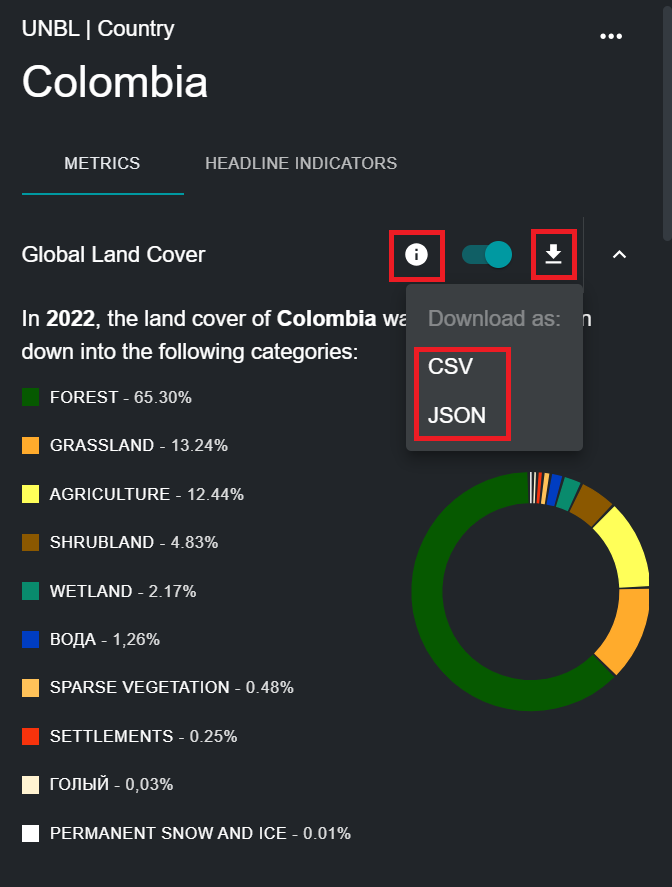
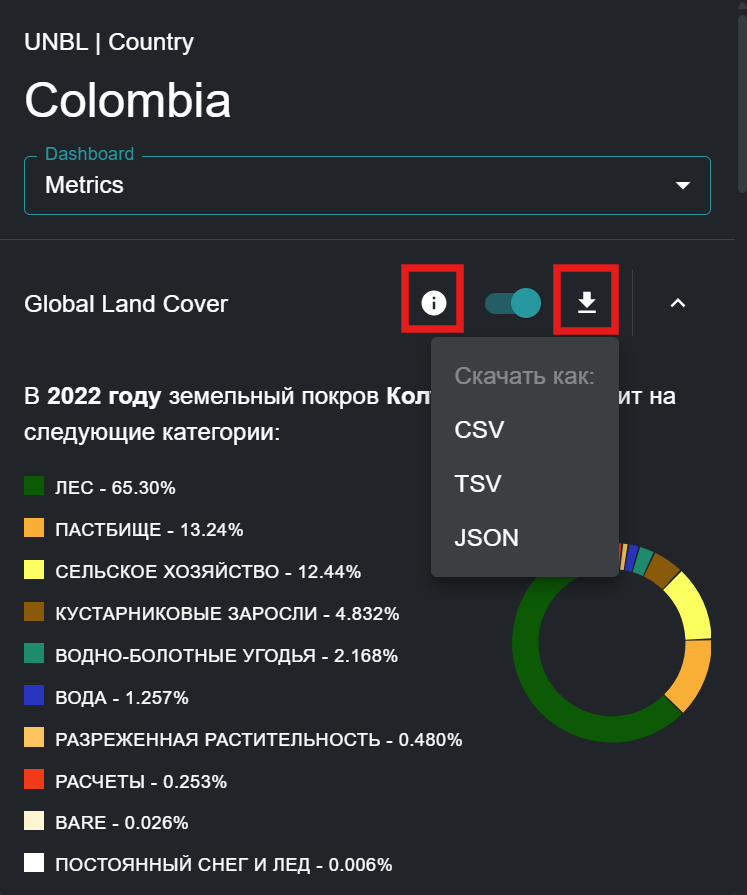
FOR REVIEWERS - public platform updates

Changed region(s): [[0.0312, 0.2435, 0.9688, 0.9741], [0.0312, 0.0, 0.5938, 0.2435], [0.9062, 0.1826, 0.9375, 0.2131]]

diff --git a/docs/unbl-public-platform/15_clip_export.ru.md b/docs/unbl-public-platform/15_clip_export.ru.md
@@ -1,12 +1,16 @@
 # Как мне вырезать и экспортировать наборы данных?
 
-Зарегистрированные пользователи UNBL могут вырезать растровые наборы данных по интересующей их области и загружать их для использования в настольном программном обеспечении GIS. Эта функция позволяет пользователям получать доступ к исходным данным, избегая при этом необходимости в пропускной способности и хранилище, требуемых для загрузки и работы с глобальным набором данных. 
+Зарегистрированные пользователи UNBL могут:
 
-Чтобы вырезать набор данных по интересующей вас области и загрузить его:
+- Вырезать растровые наборы данных по интересующей их области и загружать их для использования в настольном программном обеспечении GIS--Эта функция позволяет пользователям получать доступ к исходным данным, избегая при этом необходимости в пропускной способности и хранилище, требуемых для загрузки и работы с глобальным набором данных. 
+
+-  Cкачать файл с границами интересующего вас района в формате GeoJSON для использования в настольном ГИС-программном обеспечении. 
+
+Для этого:
 
 1.	Нажмите кнопку «МЕСТА» и выберите интересующие вас места.
 
-2.	Нажмите на значок **…** справа от названия страны и нажмите «Обрезать и экспортировать слои». 
+2.	Нажмите на значок ![](images/icons/ellipsis-icon.png){style="display: inline; width: 1em; height: 1em; width: 2em;"} справа от названия страны и выберите «Скачать GeoJSON», чтобы загрузить файл с границами интересующего вас региона, или нажмите «Обрезать и экспортировать слои», если хотите обрезать и скачать конкретный набор данных. Если вы выбрали последний вариант, выполните дополнительные шаги 3–6, описанные ниже.
 
 	![](images/ru/image072.png)
 

diff --git a/docs/unbl-public-platform/8_dynamic_metrics1.fr.md b/docs/unbl-public-platform/8_dynamic_metrics1.fr.md
@@ -39,7 +39,7 @@ Pour consulter ces indicateurs sur le UN Biodiversity Lab :
 
 1. Sélectionnez un pays ou une zone d'intérêt spécifique dans l'onglet ENDROITS.
 
-2. Consultez les indicateurs dans le panneau de gauche. Choisissez entre une liste de neuf indicateurs dynamiques ou deux indicateurs principaux en cliquant sur le bouton METRICS ou HEADLINE INDICATORS. Notez que les indicateurs principaux et l'indicateur standard des aires protégées ne peuvent être affichés que pour les lieux de type pays.
+2. Consultez les indicateurs dans le panneau de gauche. Choisissez entre une liste de neuf indicateurs dynamiques ou deux indicateurs principaux en sélectionnant l'option METRICS ou HEADLINE INDICATORS dans le tableau de bord affiché. Notez que les indicateurs principaux et l'indicateur standard des aires protégées ne peuvent être affichés que pour les lieux de type pays.
 
 3. Cliquez sur le bouton à côté d'une mesure spécifique si vous souhaitez afficher cet ensemble de données sur la carte. Cliquez à nouveau sur le bouton ou sur l'icône « Supprimer l'ensemble de données » dans la légende pour effacer l'écran.
 
@@ -47,6 +47,6 @@ Pour consulter ces indicateurs sur le UN Biodiversity Lab :
 
 4. Cliquez sur l'icône ![](images/icons/info-icon.png){style="display: inline; width: 1em; height: 2em; width: 2em;"} pour afficher les informations relatives à l'ensemble de données. Les pages d'informations fournissent une brève description des données, des articles connexes à lire, des données brutes à télécharger (si elles sont disponibles gratuitement) et les spécifications de la licence.
 
-5. Pour télécharger les données récapitulatives de l'indicateur au format .csv ou .json, cliquez sur l'icône en forme de flèche ![](images/icons/download-icon.png){style="display: inline; width: 1em; height: 2em; width: 2em;"}. Vous pouvez également télécharger les données à partir des liens sources figurant sur les pages d'informations des ensembles de données.
+5. Pour télécharger les données récapitulatives de l'indicateur au format .csv, .tsv ou .json, cliquez sur l'icône en forme de flèche ![](images/icons/download-icon.png){style="display: inline; width: 1em; height: 2em; width: 2em;"}. Vous pouvez également télécharger les données à partir des liens sources figurant sur les pages d'informations des ensembles de données.
 
 	![](images/fr/image041.png)

diff --git a/docs/unbl-public-platform/8_dynamic_metrics1.es.md b/docs/unbl-public-platform/8_dynamic_metrics1.es.md
@@ -39,7 +39,7 @@ Para ver estas métricas en el UN Biodiversity Lab:
 
 1. Seleccione un país o área de interés específicos en la pestaña «LUGARES».
 
-2. Revise las métricas en el panel izquierdo. Elija entre una lista de las nueve métricas dinámicas o dos métricas de indicadores de cabecera haciendo clic en el botón «MÉTRICAS» o «INDICADORES PRINCIPALES». Tenga en cuenta que las métricas de indicadores principales y la métrica estándar de Áreas Protegidas solo se pueden mostrar para lugares de tipo país.
+2. Revise las métricas en el panel izquierdo. Elija entre una lista de las nueve métricas dinámicas o dos métricas de indicadores de cabecera seleccionando la opción «MÉTRICAS» o «INDICADORES PRINCIPALES» en el panel de control que se muestra. Tenga en cuenta que las métricas de indicadores principales y la métrica estándar de Áreas Protegidas solo se pueden mostrar para lugares de tipo país.
 
 3. Haga clic en el botón de activación junto a cualquier métrica específica si desea ver este conjunto de datos en el mapa. Haga clic de nuevo en el botón de activación o en el icono de eliminar conjunto de datos de la leyenda para borrar la pantalla.
 
@@ -47,6 +47,6 @@ Para ver estas métricas en el UN Biodiversity Lab:
 	
 4. Haga clic en el ![](images/icons/info-icon.png){style="display: inline; width: 1em; height: 2em; width: 2em;"} icono para ver la información del conjunto de datos. Las páginas de información proporcionan una breve descripción de los datos, documentos relacionados para leer, datos sin procesar para descargar (si están disponibles gratuitamente) y especificaciones de la licencia.
 
-5. Para descargar los datos resumidos de la métrica en formato .csv o .json, haga clic en el icono de flecha ![](images/icons/download-icon.png){style="display: inline; width: 1em; height: 2em; width: 2em;"}. También puede descargar los datos desde los enlaces de origen que se encuentran en las páginas de información de los conjuntos de datos.
+5. Para descargar los datos resumidos de la métrica en formato .csv, .tsv o .json, haga clic en el icono de flecha ![](images/icons/download-icon.png){style="display: inline; width: 1em; height: 2em; width: 2em;"}. También puede descargar los datos desde los enlaces de origen que se encuentran en las páginas de información de los conjuntos de datos.
 
 	![](images/es/SP 19.png)

diff --git a/docs/unbl-public-platform/8_dynamic_metrics1.pt.md b/docs/unbl-public-platform/8_dynamic_metrics1.pt.md
@@ -39,14 +39,14 @@ Para visualizar essas métricas no Laboratório de Biodiversidade da ONU:
 
 1.	Selecione um país específico ou área de interesse na aba 'LOCAIS'.
 
-2.	Revise as métricas no painel esquerdo. Escolha entre uma lista das nove métricas dinâmicas ou dois indicadores principais clicando no botão 'MÉTRICAS' ou 'INDICADORES PRINCIPAIS'. Observe que as métricas de indicadores principais e a métrica padrão de Áreas Protegidas só podem ser exibidas para locais do tipo país.
+2.	Revise as métricas no painel esquerdo. Escolha entre uma lista das nove métricas dinâmicas ou duas métricas de indicadores principais, selecionando a opção «METRICS» ou «HEADLINE INDICATORS» no painel de controlo apresentado. Observe que as métricas de indicadores principais e a métrica padrão de Áreas Protegidas só podem ser exibidas para locais do tipo país.
 
 3.	Clique no botão de alternância ao lado de qualquer métrica específica se você quiser visualizar este conjunto de dados no mapa. Clique no botão de alternância novamente ou no ícone de remover conjunto de dados na legenda para limpar a tela.
 
-	![](images/en/image035.png)
+	![](images/pt/image035.png)
 
 4.  Clique no ícone ![](images/icons/info-icon.png){style="display: inline; width: 1em; height: 2em; width: 2em;"} para visualizar informações do conjunto de dados. As páginas de informações fornecem uma breve descrição dos dados, artigo relacionado para leitura, dados brutos para download (se disponíveis gratuitamente) e especificações de licença.
 
-5.	Para baixar dados resumidos da métrica em formato .csv ou .json, clique no ícone de seta ![](images/icons/download-icon.png){style="display: inline; width: 1em; height: 2em; width: 2em;"}. Você também pode baixar os dados dos links de origem nas páginas de informações dos conjuntos de dados.
+5.	Para baixar dados resumidos da métrica em formato .csv, .tsv ou .json, clique no ícone de seta ![](images/icons/download-icon.png){style="display: inline; width: 1em; height: 2em; width: 2em;"}. Você também pode baixar os dados dos links de origem nas páginas de informações dos conjuntos de dados.
 
-	![](images/en/image041.png)
+	![](images/pt/image041.png)

diff --git a/docs/unbl-public-platform/15_clip_export.fr.md b/docs/unbl-public-platform/15_clip_export.fr.md
@@ -1,12 +1,16 @@
 # Comment découper et exporter des ensembles de données ?
 
-Les utilisateurs enregistrés sur le UN Biodiversity Lab peuvent découper des ensembles de données raster pour les limiter à une zone qui les intéresse et les télécharger afin de les utiliser dans un logiciel SIG de bureau. Cette fonction permet aux utilisateurs d'accéder aux données sous-jacentes tout en évitant la bande passante et le stockage nécessaires pour télécharger et travailler avec un ensemble de données mondial.
+Les utilisateurs enregistrés sur le UN Biodiversity Lab peuvent:
 
-Pour découper un ensemble de données correspondant à la zone qui vous intéresse et le télécharger :
+- Découper des ensembles de données raster pour les limiter à une zone qui les intéresse et les télécharger afin de les utiliser dans un logiciel SIG de bureau -- cette fonction permet aux utilisateurs d'accéder aux données sous-jacentes tout en évitant la bande passante et le stockage nécessaires pour télécharger et travailler avec un ensemble de données mondial.
+
+- Téléchargez le fichier de limites d'une zone d'intérêt au format GeoJSON pour l'utiliser dans un logiciel SIG de bureau. 
+
+Pour ce faire :
 
 1. Cliquez sur le bouton ENDROITS et sélectionnez les lieux qui vous intéressent.
 
-2. Cliquez sur l'icône **…** à droite du nom du pays, puis sur « Découper et exporter les couches ».
+2. Cliquez sur l'icône ![](images/icons/ellipsis-icon.png){style="display: inline; width: 1em; height: 1em; width: 2em;"} située à droite du nom du pays, puis cliquez sur « Télécharger GeoJSON » pour télécharger le fichier des limites de la zone qui vous intéresse, ou cliquez sur « Découper et exporter les couches » si vous souhaitez découper et télécharger un ensemble de données spécifique. Si vous choisissez cette dernière option, suivez les étapes supplémentaires 3 à 6 décrites ci-dessous.
 
 	![](images/fr/image072.png)
 

diff --git a/docs/unbl-public-platform/8_dynamic_metrics1.md b/docs/unbl-public-platform/8_dynamic_metrics1.md
@@ -39,7 +39,7 @@ To view these metrics on UN Biodiversity Lab:
 
 1.	Select a specific country or area of interest in the 'PLACES' tab.
 
-2.	Review the metrics in the left panel. Choose between a list of the nine dynamic metrics or two headline indicator metrics by clicking on either the 'METRICS' or 'HEADLINE INDICATORS' button. Note that headline indicator metrics and the Protected Areas standard metric can only be displayed for country-type places.
+2.	Review the metrics in the left panel. Choose between a list of the nine dynamic metrics or two headline indicator metrics by choosing either the 'METRICS' or 'HEADLINE INDICATORS' option from the displayed dashboard. Note that headline indicator metrics and the Protected Areas standard metric can only be displayed for country-type places.
 
 3.	Click on the toggle button next to any specific metric if you want to view this dataset on the map. Click on the toggle button again or the remove dataset icon on the legend to clear the screen. 
 
@@ -47,6 +47,6 @@ To view these metrics on UN Biodiversity Lab:
 	
 4.  Click on the ![](images/icons/info-icon.png){style="display: inline; width: 1em; height: 2em; width: 2em;"} icon to view dataset info. The info pages provide a brief description of the data, related paper to read, raw data to download (if freely available) and license specifications.  
 
-5.	To download summary data for the metric in .csv or .json format, click on the arrow icon ![](images/icons/download-icon.png){style="display: inline; width: 1em; height: 2em; width: 2em;"}. You can also download the data from source links on the datasets’ info pages.  
+5.	To download summary data for the metric in .csv, .tsv or .json format, click on the arrow icon ![](images/icons/download-icon.png){style="display: inline; width: 1em; height: 2em; width: 2em;"}. You can also download the data from source links on the datasets’ info pages.  
 
 	![](images/en/image041.png)

diff --git a/docs/unbl-public-platform/15_clip_export.pt.md b/docs/unbl-public-platform/15_clip_export.pt.md
@@ -1,14 +1,18 @@
 # Como faço para recortar e exportar conjuntos de dados?
 
-Usuários registrados no Laboratório de Biodiversidade da ONU podem recortar conjuntos de dados raster para uma área de interesse e baixá-los para uso em um software de SIG de desktop. Esta função permite que os usuários acessem os dados subjacentes enquanto evitam a largura de banda e o armazenamento necessários para baixar e trabalhar com um conjunto de dados global.
+Registered users on UN Biodiversity Lab are able to:
 
-Para recortar um conjunto de dados para sua área de interesse e baixar:
+- Clip raster datasets to an area of interest and download them for use in a desktop GIS software--this function allows users to access the underlying data while avoiding the bandwidth and storage required to download and work with a global dataset;
+
+- Download the boundary file of an area of interest as a GeoJSON for use in a desktop GIS software. 
+
+To do this:
 
 1.	Clique no botão 'LOCAIS' e selecione seus locais de interesse.
 
-2.	Clique no ícone **…** à direita do nome do país e clique em 'Recortar e Exportar Camadas'.
+2.	Clique no ícone ![](images/icons/ellipsis-icon.png){style="display: inline; width: 1em; height: 1em; width: 2em;"} à direita do nome do país e clique em «Descarregar GeoJSON» para descarregar o ficheiro de limites da sua área de interesse, ou clique em «Recortar e exportar camadas» se pretender recortar e descarregar um conjunto de dados específico. Se escolher a última opção, siga os passos adicionais 3 a 6 descritos abaixo.
 
-	![](images/en/image073.png)
+	![](images/pt/image073.png)
 
 3.  Digite o nome ou selecione os dados que você deseja baixar. Se os dados contiverem camadas de múltiplos anos, selecione o ano que você deseja baixar. Você tem a opção de baixar camadas recortadas em formato raster GeoTIFF ou em formato de arquivo de imagem PNG.
 

diff --git a/docs/unbl-public-platform/15_clip_export.es.md b/docs/unbl-public-platform/15_clip_export.es.md
@@ -1,12 +1,16 @@
 # ¿Cómo puedo recortar y exportar conjuntos de datos?
 
-Los usuarios registrados en el UN Biodiversity Lab pueden recortar conjuntos de datos ráster a un área de interés y descargarlos para utilizarlos en un software SIG de escritorio. Esta función permite a los usuarios acceder a los datos subyacentes, evitando el ancho de banda y el almacenamiento necesarios para descargar y trabajar con un conjunto de datos global.
+Los usuarios registrados en el UN Biodiversity Lab pueden:
 
-Para recortar un conjunto de datos a su área de interés y descargarlo:
+- Recortar conjuntos de datos ráster a un área de interés y descargarlos para utilizarlos en un software SIG de escritorio--esta función permite a los usuarios acceder a los datos subyacentes, evitando el ancho de banda y el almacenamiento necesarios para descargar y trabajar con un conjunto de datos global;
+
+- Descarga el archivo de límites de una zona de interés en formato GeoJSON para utilizarlo en un programa de SIG de escritorio. 
+
+Para ello:
 
 1. Haga clic en el botón «LUGARES» y seleccione los lugares de su interés.
 
-2. Haga clic en el icono «...» a la derecha del nombre del país y haga clic en «Recortar y exportar capas».
+2. Haga clic en el icono ![](images/icons/ellipsis-icon.png){style="display: inline; width: 1em; height: 1em; width: 2em;"} situado a la derecha del nombre del país y seleccione «Descargar GeoJSON» para descargar el archivo de límites de la zona que le interese, o haga clic en «Recortar y exportar capas» si desea recortar y descargar un conjunto de datos específico. Si eliges la segunda opción, sigue los pasos adicionales 3 a 6 que se describen a continuación.
 
 	![](images/es/SP 31.png)
 

diff --git a/docs/unbl-public-platform/15_clip_export.md b/docs/unbl-public-platform/15_clip_export.md
@@ -1,12 +1,16 @@
 # How do I clip and export datasets?
 
-Registered users on UN Biodiversity Lab are able to clip raster datasets to an area of interest and download them for use in a desktop GIS software. This function allows users to access the underlying data while avoiding the bandwidth and storage required to download and work with a global dataset. 
+Registered users on UN Biodiversity Lab are able to:
 
-To clip a dataset to your area of interest and download:
+- Clip raster datasets to an area of interest and download them for use in a desktop GIS software--this function allows users to access the underlying data while avoiding the bandwidth and storage required to download and work with a global dataset;
+
+- Download the boundary file of an area of interest as a GeoJSON for use in a desktop GIS software. 
+
+To do this:
 
 1.	Click on the 'PLACES' button and select your places of interest.
 
-2.	Click on the **…** icon to the right of the country’s name and click on 'Clip and Export Layers'. 
+2.	Click on the ![](images/icons/ellipsis-icon.png){style="display: inline; width: 1em; height: 1em; width: 2em;"} icon to the right of the country’s name and click on 'Download GeoJSON' to download the boundary file for your area of interest, or click on 'Clip and Export Layers' if you want to clip and download a specific dataset. If picking the latter option, follow the additional steps 3 - 6 outlined below.
 
 	![](images/en/image073.png)
 

diff --git a/docs/unbl-public-platform/18_suggest_data.md b/docs/unbl-public-platform/18_suggest_data.md
@@ -4,4 +4,6 @@ We welcome suggestions on data that would enrich the UN Biodiversity Lab! If you
 
 Our team will review suggestions as they are received. UNDP and UNEP-WCMC have formalized criteria for data published on the public platform to assist in identifying and curating the best available datasets on these themes to enable streamlined and standardized analyses and reporting. The criteria are available [here](https://unbiodiversitylab.org/wp-content/uploads/2021/01/Global-Biodiversity-Data-Fitness-Assessment.pdf).
 
+In line with our policy to increase uptake of regional and/or national data that is useful for reporting on the state of nature and planet, we make exceptions to the criteria for regional data submitted by Technical and Scientific Cooperation Centres (TSCCs) for inclusion on UNBL. These data are subject to an ad-hoc review and final decision from the data support team. 
+
 To upload data for your institution’s use in a UNBL workspace, please see the next question on requesting a workspace.
